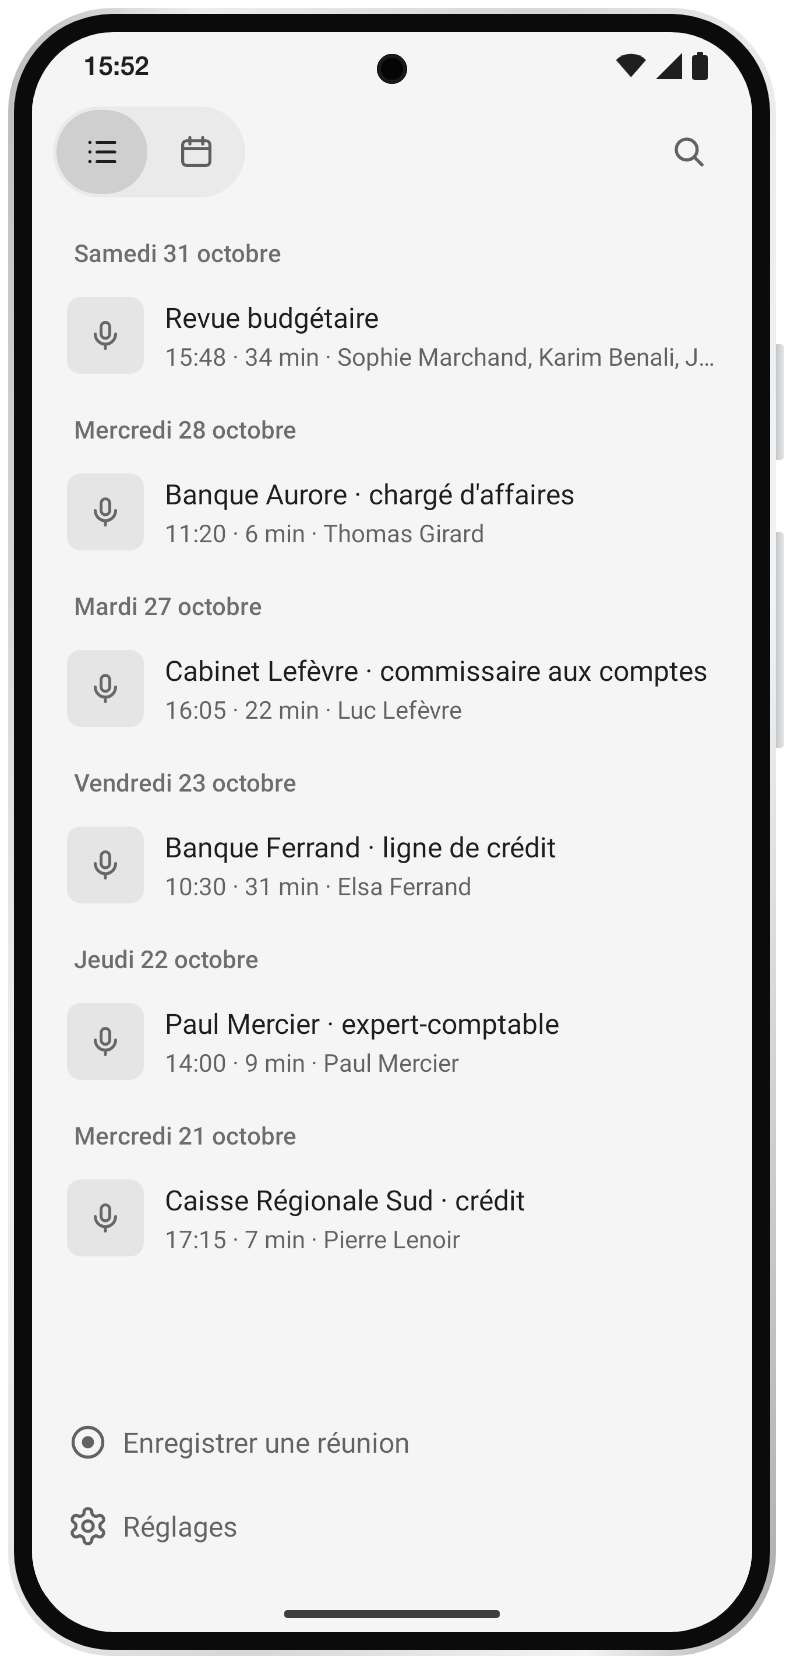
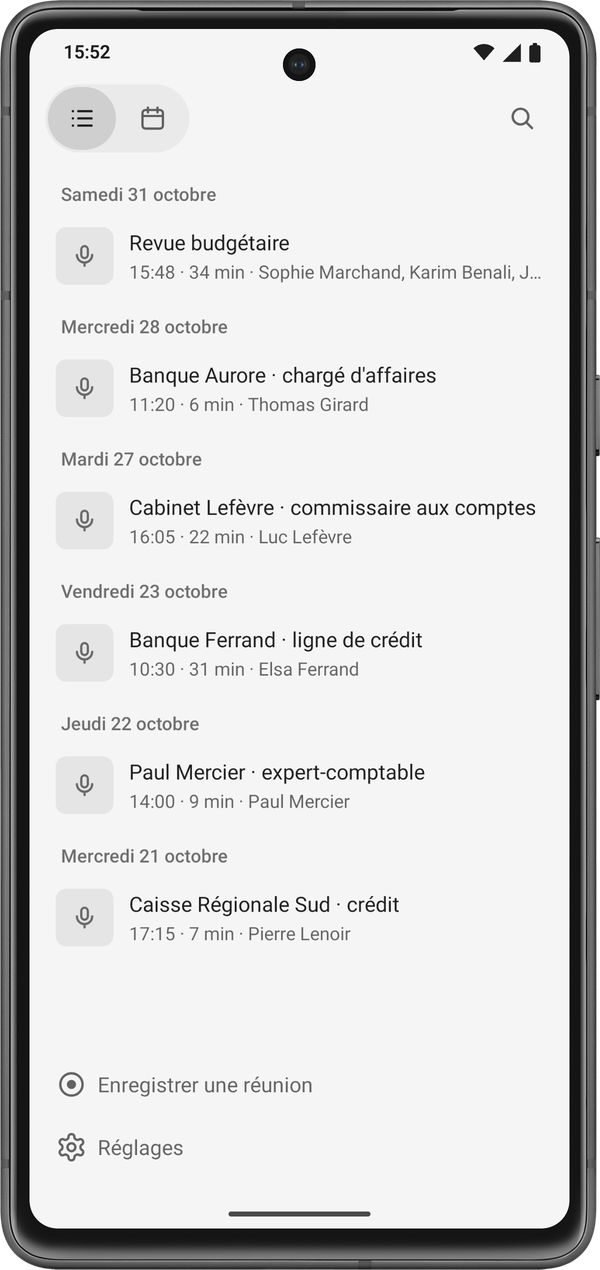
Accueil : le vrai Pixel 7, cadre officiel de Google
Le cadre photographié de l'émulateur Android (AOSP, device-art-resources/pixel_7) remplace le dessin en CSS ;
l'écran est à la résolution de l'appareil, 1080 × 2400.

diff --git a/index.html b/index.html
@@ -48,7 +48,7 @@
 
   <div class="stage">
     <img class="decoupe" id="appels" src="img/appels.webp" width="2560" height="1582" alt="La fenêtre Conversations de Callrecorder : à gauche, les appels d'octobre d'un directeur financier, une ligne par appel avec sa première capture, l'app, l'heure, le titre et la durée ; à droite, la revue budgétaire sur Teams avec Sophie, Karim et Julie : l'enregistrement, les répliques horodatées de chacun et les captures de la visio.">
-    <img class="pixel" data-tab="appel" src="img/pixel-7.webp" width="792" height="1664" alt="Devant, un Google Pixel 7 ouvert sur l'app Callrecorder : la même liste d'appels, de la revue budgétaire du 31 octobre à la Caisse Régionale Sud.">
+    <img class="pixel" data-tab="appel" src="img/pixel-7.webp?v=2" width="600" height="1270" alt="Devant, un Google Pixel 7 ouvert sur l'app Callrecorder : la même liste d'appels, de la revue budgétaire du 31 octobre à la Caisse Régionale Sud.">
     <div class="claude" data-tab="appel" role="img" aria-label="Par-dessus, une conversation avec Claude : avant le conseil, on lui demande ce que les banques ont vraiment dit au téléphone sur la ligne de crédit. Claude lit la revue budgétaire et quatre appels avec les banques : deux renouvellent, à des conditions différentes, la troisième ne décidera pas avant décembre.">
       <div class="bar"><i></i><i></i><i></i><span>Claude</span></div>
       <div class="body">
